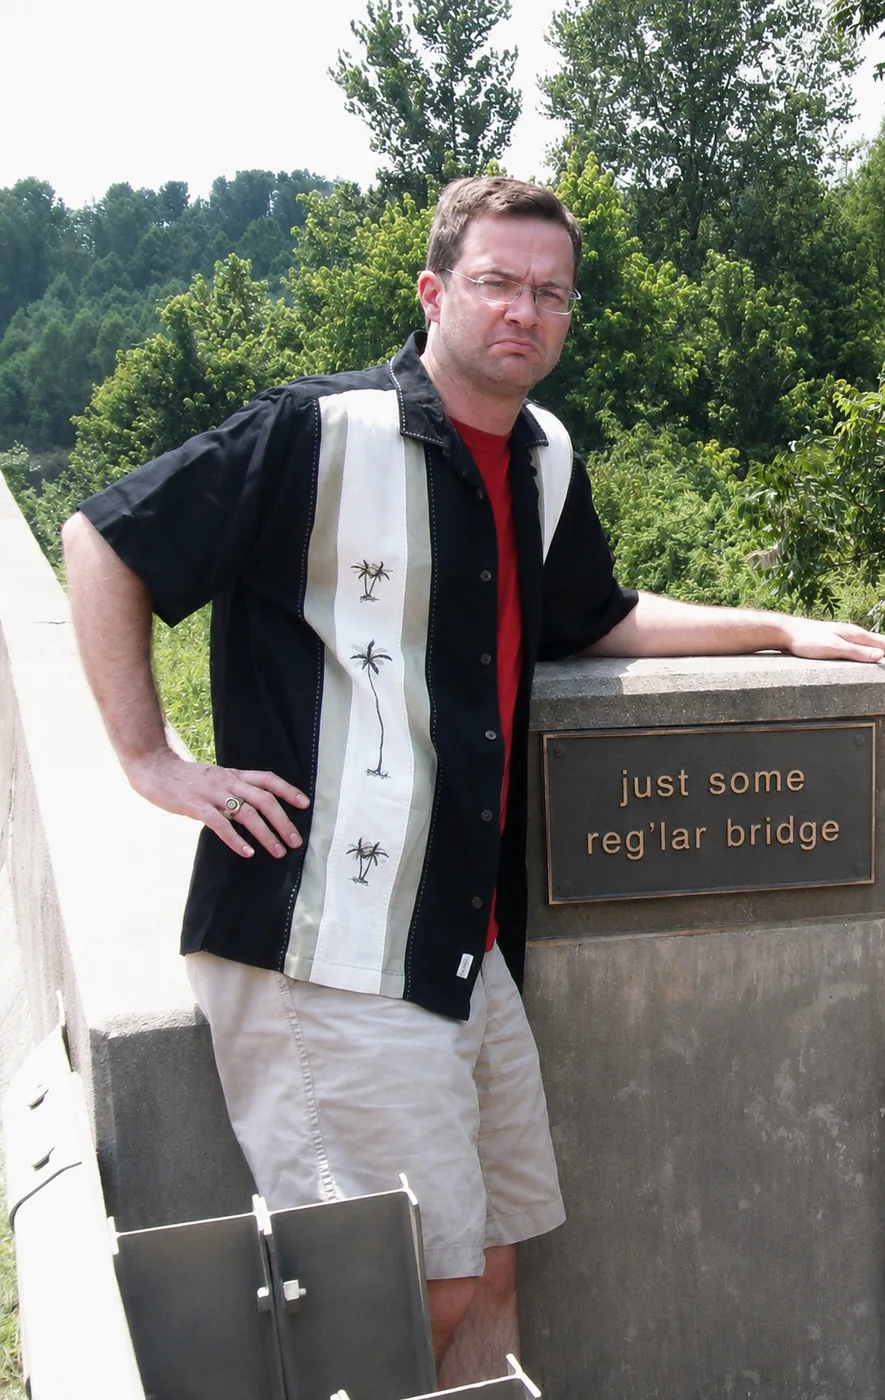
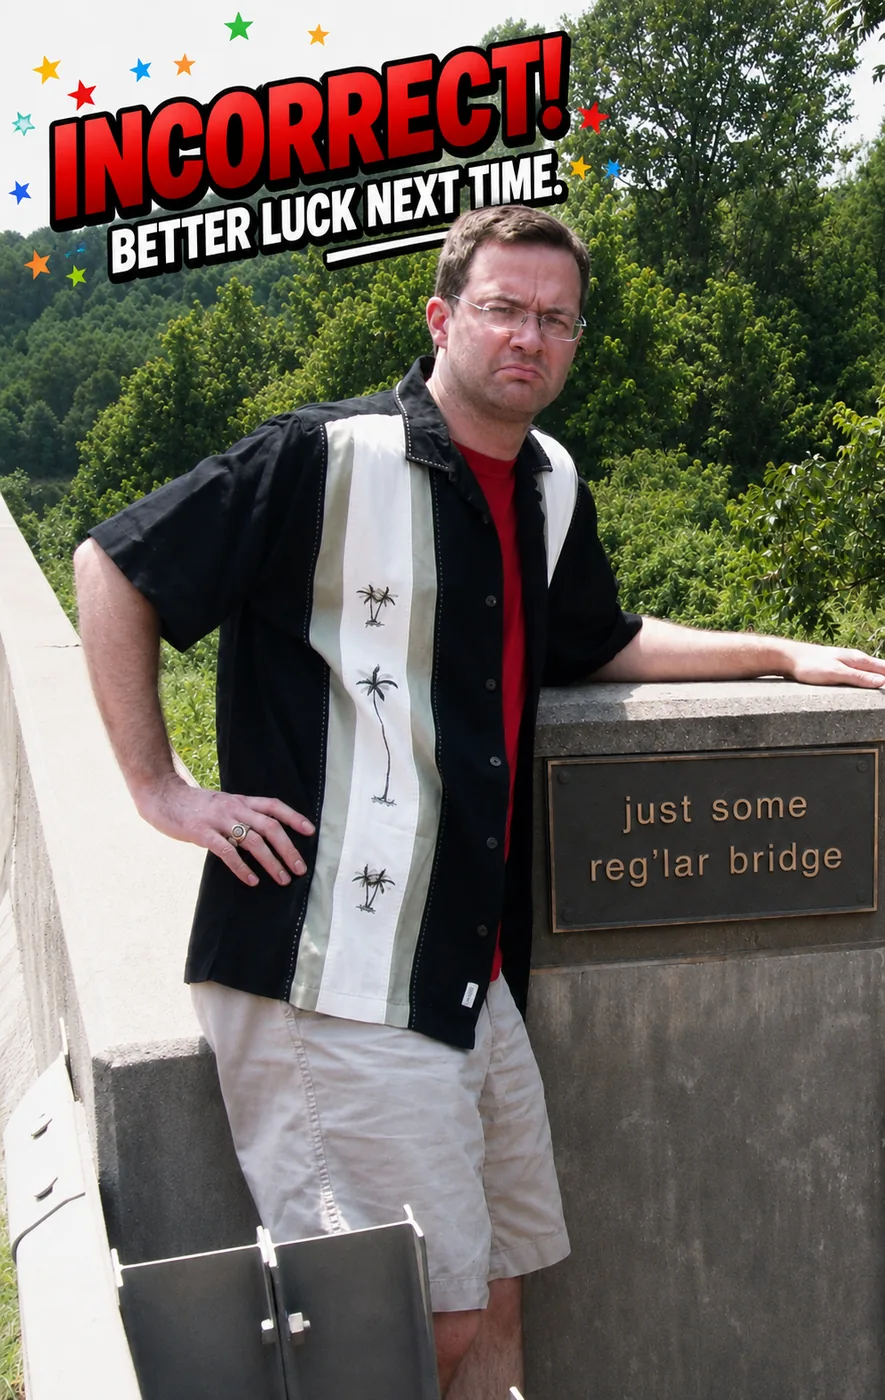
v1.2.0: add host end-game control, alpha-only room codes, and updated Jason reaction

diff --git a/app.js b/app.js
@@ -12,6 +12,7 @@ import {
   revealRound,
   nextRound,
   resetGame,
+  endGame,
   deleteRoom
 } from "./firebase-service.js";
 
@@ -80,7 +81,7 @@ function friendlyError(error) {
 }
 
 function randomCode() {
-  const chars = "ABCDEFGHJKLMNPQRSTUVWXYZ23456789";
+  const chars = "ABCDEFGHJKLMNPQRSTUVWXYZ";
   return Array.from({ length: 5 }, () => chars[Math.floor(Math.random() * chars.length)]).join("");
 }
 
@@ -359,6 +360,14 @@ $("#create-form").addEventListener("submit", async event => {
   }
 });
 
+
+$("#join-code").addEventListener("input", event => {
+  event.currentTarget.value = event.currentTarget.value
+    .toUpperCase()
+    .replace(/[^A-Z]/g, "")
+    .slice(0, 5);
+});
+
 $("#join-form").addEventListener("submit", async event => {
   event.preventDefault();
   const playerName = $("#join-name").value.trim();
@@ -431,6 +440,18 @@ $("#play-again-button").addEventListener("click", () =>
   resetGame(state.roomCode).catch(error => setError(friendlyError(error), error?.message))
 );
 
+async function finishGameEarly() {
+  if (!state.isHost) return;
+  const confirmed = window.confirm("End the game now and show the current final scores?");
+  if (!confirmed) return;
+
+  try {
+    await endGame(state.roomCode);
+  } catch (error) {
+    setError(friendlyError(error), error?.message);
+  }
+}
+
 async function endRoom() {
   try {
     await deleteRoom(state.roomCode);
@@ -439,6 +460,8 @@ async function endRoom() {
     setError(friendlyError(error), error?.message);
   }
 }
+$("#end-game-question-button").addEventListener("click", finishGameEarly);
+$("#end-game-reveal-button").addEventListener("click", finishGameEarly);
 $("#delete-room-button").addEventListener("click", endRoom);
 $("#finish-room-button").addEventListener("click", endRoom);
 

diff --git a/index.html b/index.html
@@ -46,7 +46,7 @@
         <label for="join-name">Nickname</label>
         <input id="join-name" maxlength="20" autocomplete="nickname" required placeholder="Bill">
         <label for="join-code">Room code</label>
-        <input id="join-code" maxlength="5" autocapitalize="characters" required placeholder="JANE7">
+        <input id="join-code" maxlength="5" minlength="5" autocapitalize="characters" autocomplete="off" spellcheck="false" pattern="[A-Za-z]{5}" title="Enter the 5-letter room code" required placeholder="JAMES">
         <button class="primary-button" type="submit">Join</button>
         <p id="home-error" class="error-text"></p>
       </form>
@@ -104,6 +104,7 @@
 
       <div id="host-question-controls" class="button-stack hidden">
         <button id="reveal-button" class="primary-button">Reveal Answer</button>
+        <button id="end-game-question-button" class="danger-button">End Game</button>
       </div>
     </section>
 
@@ -129,6 +130,7 @@
 
       <div id="host-reveal-controls" class="button-stack hidden">
         <button id="next-round-button" class="primary-button">Next Round</button>
+        <button id="end-game-reveal-button" class="danger-button">End Game</button>
       </div>
     </section>
 

diff --git a/firebase-service.js b/firebase-service.js
@@ -168,6 +168,13 @@ export async function nextRound(code, currentIndex, roundCount) {
   });
 }
 
+export async function endGame(code) {
+  await updateDoc(doc(db, "rooms", code), {
+    status: "finished",
+    updatedAt: serverTimestamp()
+  });
+}
+
 export async function resetGame(code) {
   const roomRef = doc(db, "rooms", code);
   const roomSnap = await getDoc(roomRef);

diff --git a/README.md b/README.md
@@ -1,3 +1,5 @@
+Men’s Trip Trivia v1.2.0
+
 # Men’s Trip Trivia — v1.0.0
 
 A simple phone-first multiplayer trivia game for the San Francisco Men’s Trip 2026. It runs directly on GitHub Pages and uses Firebase for rooms, players, answers, scoring, and the live scoreboard.
@@ -80,3 +82,10 @@ For now, create a new room for each game rather than using **Play Again**.
 - Keeps nine rounds available.
 - Fixes answer-listener lifecycle so host answer counts update reliably.
 - Changes the submitted-answer copy to “You can still change it.”
+
+
+## v1.2.0
+- Replaced Jason's incorrect reaction image with the finished overlay version.
+- Room codes are now five letters only.
+- Hosts can end an active game early and immediately show final scores.
+- Games remain fixed at five questions.
